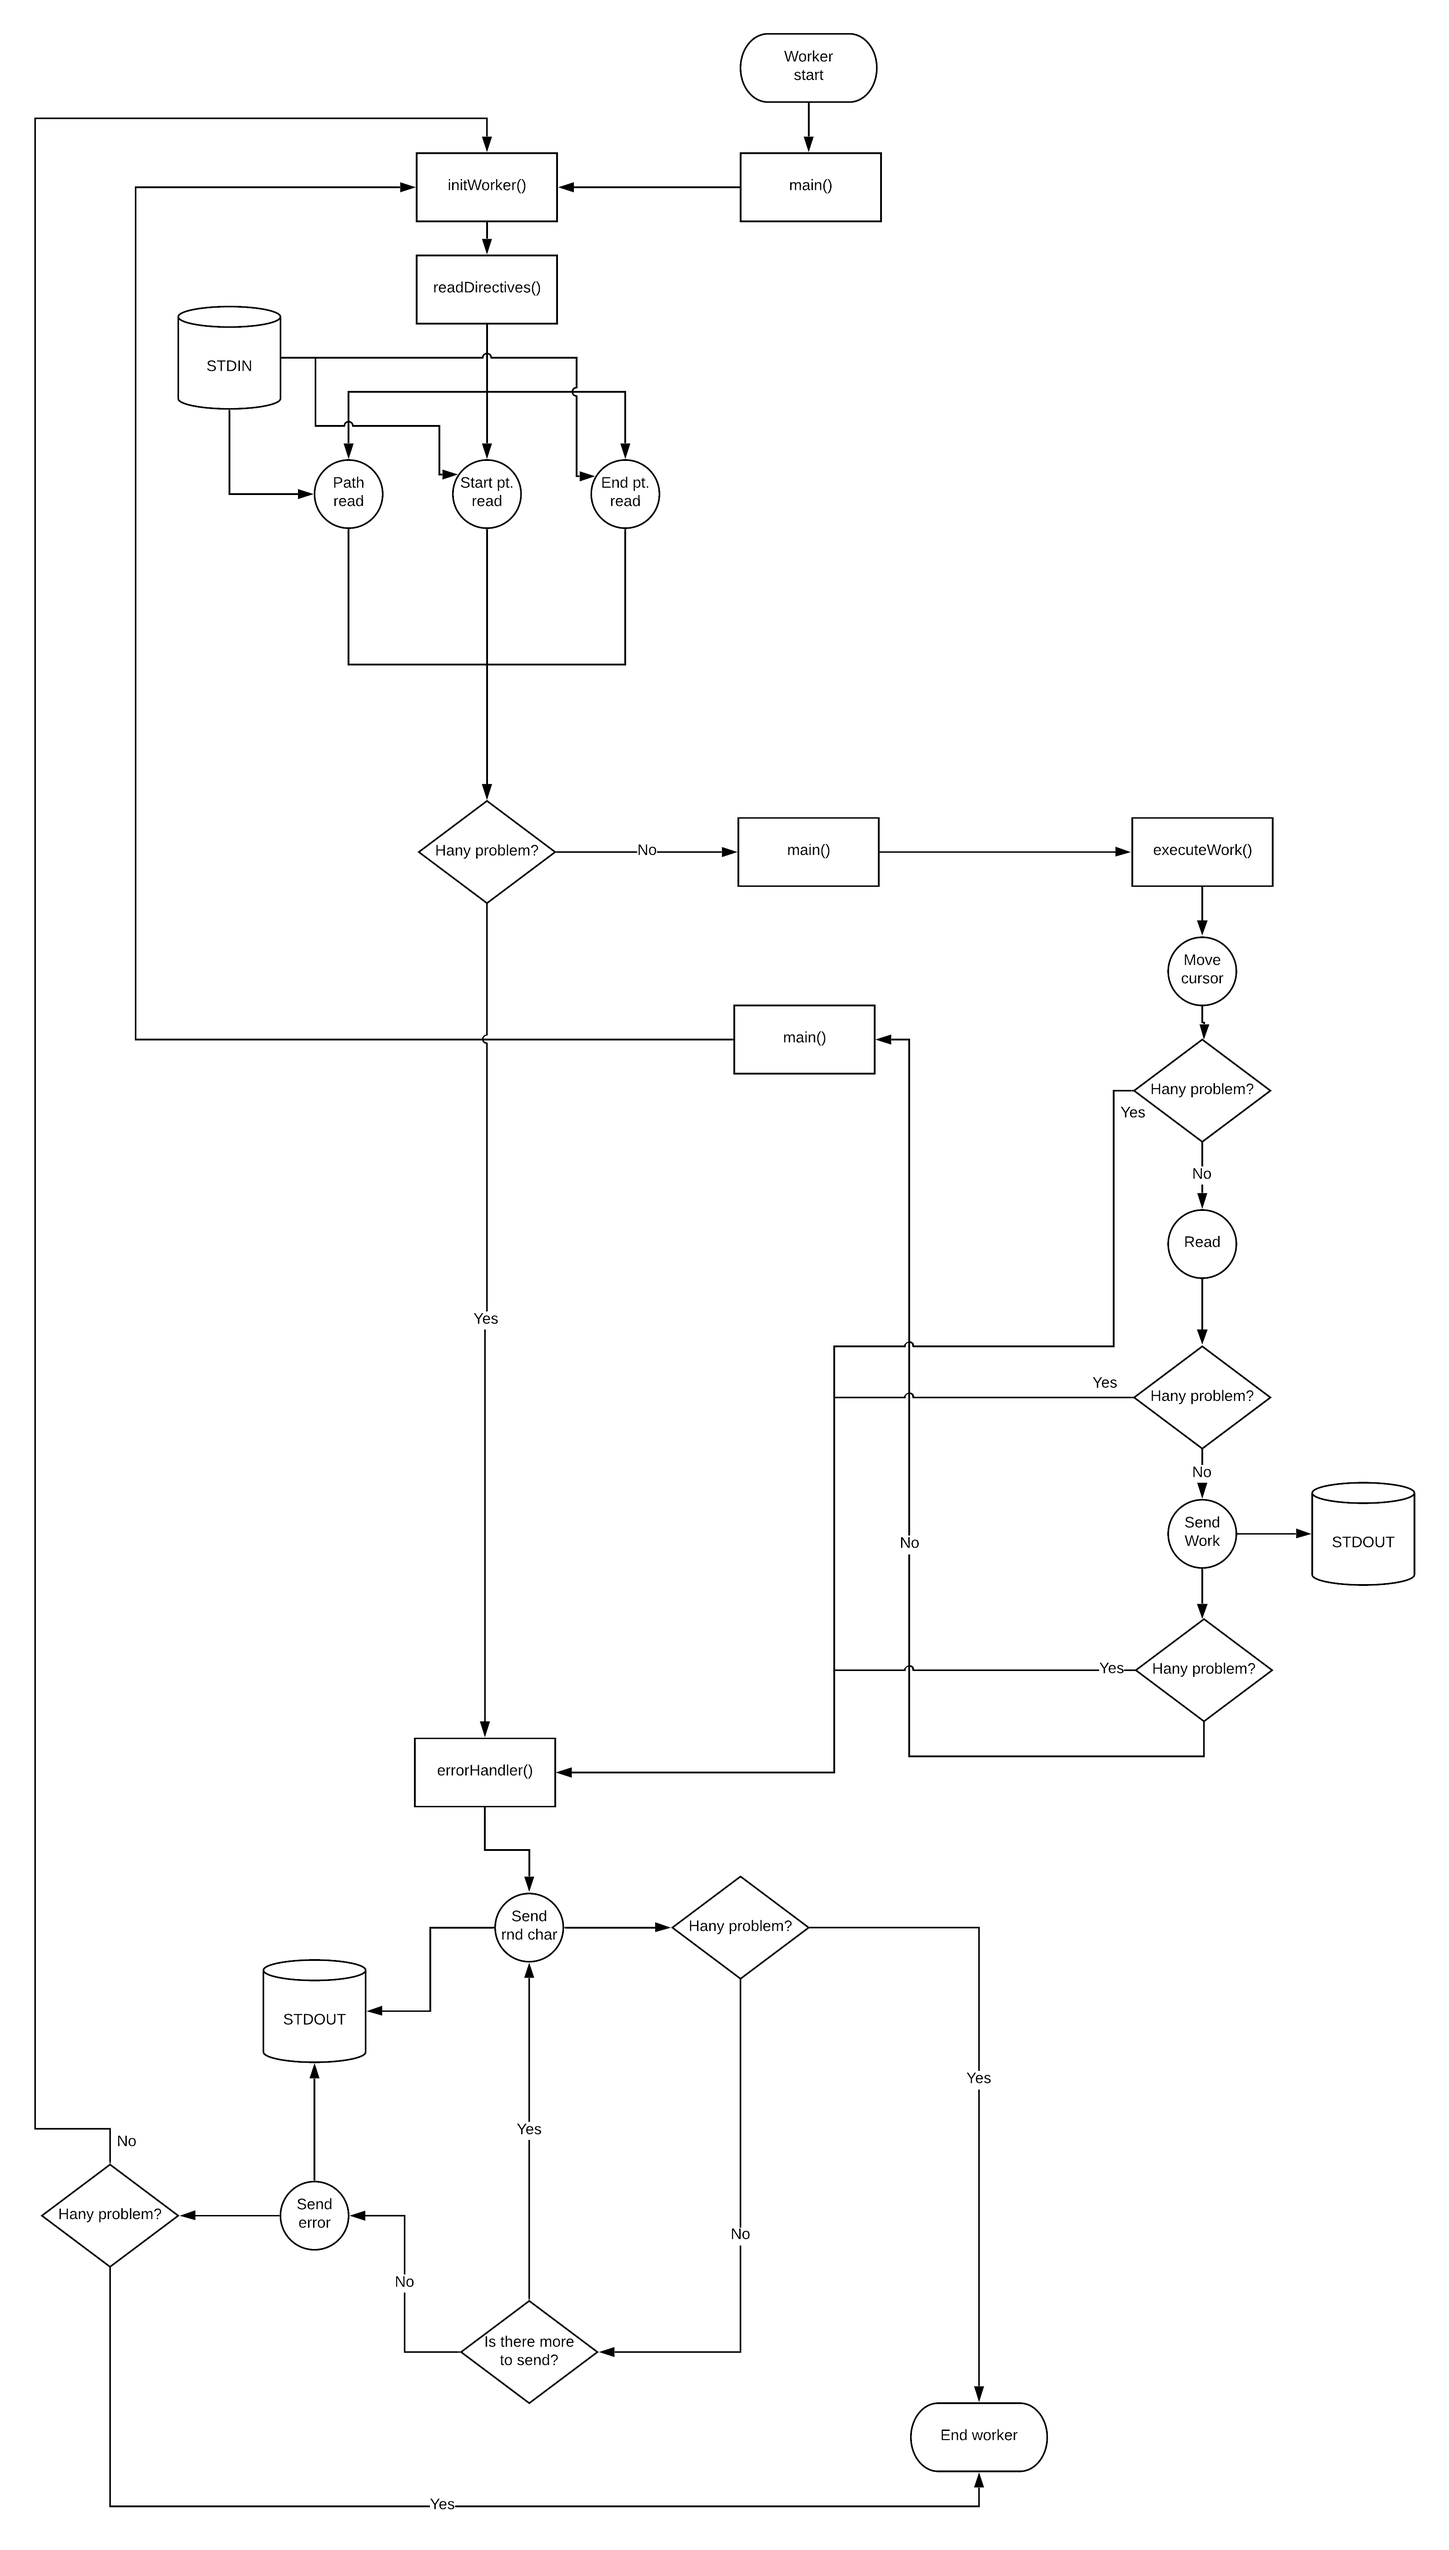
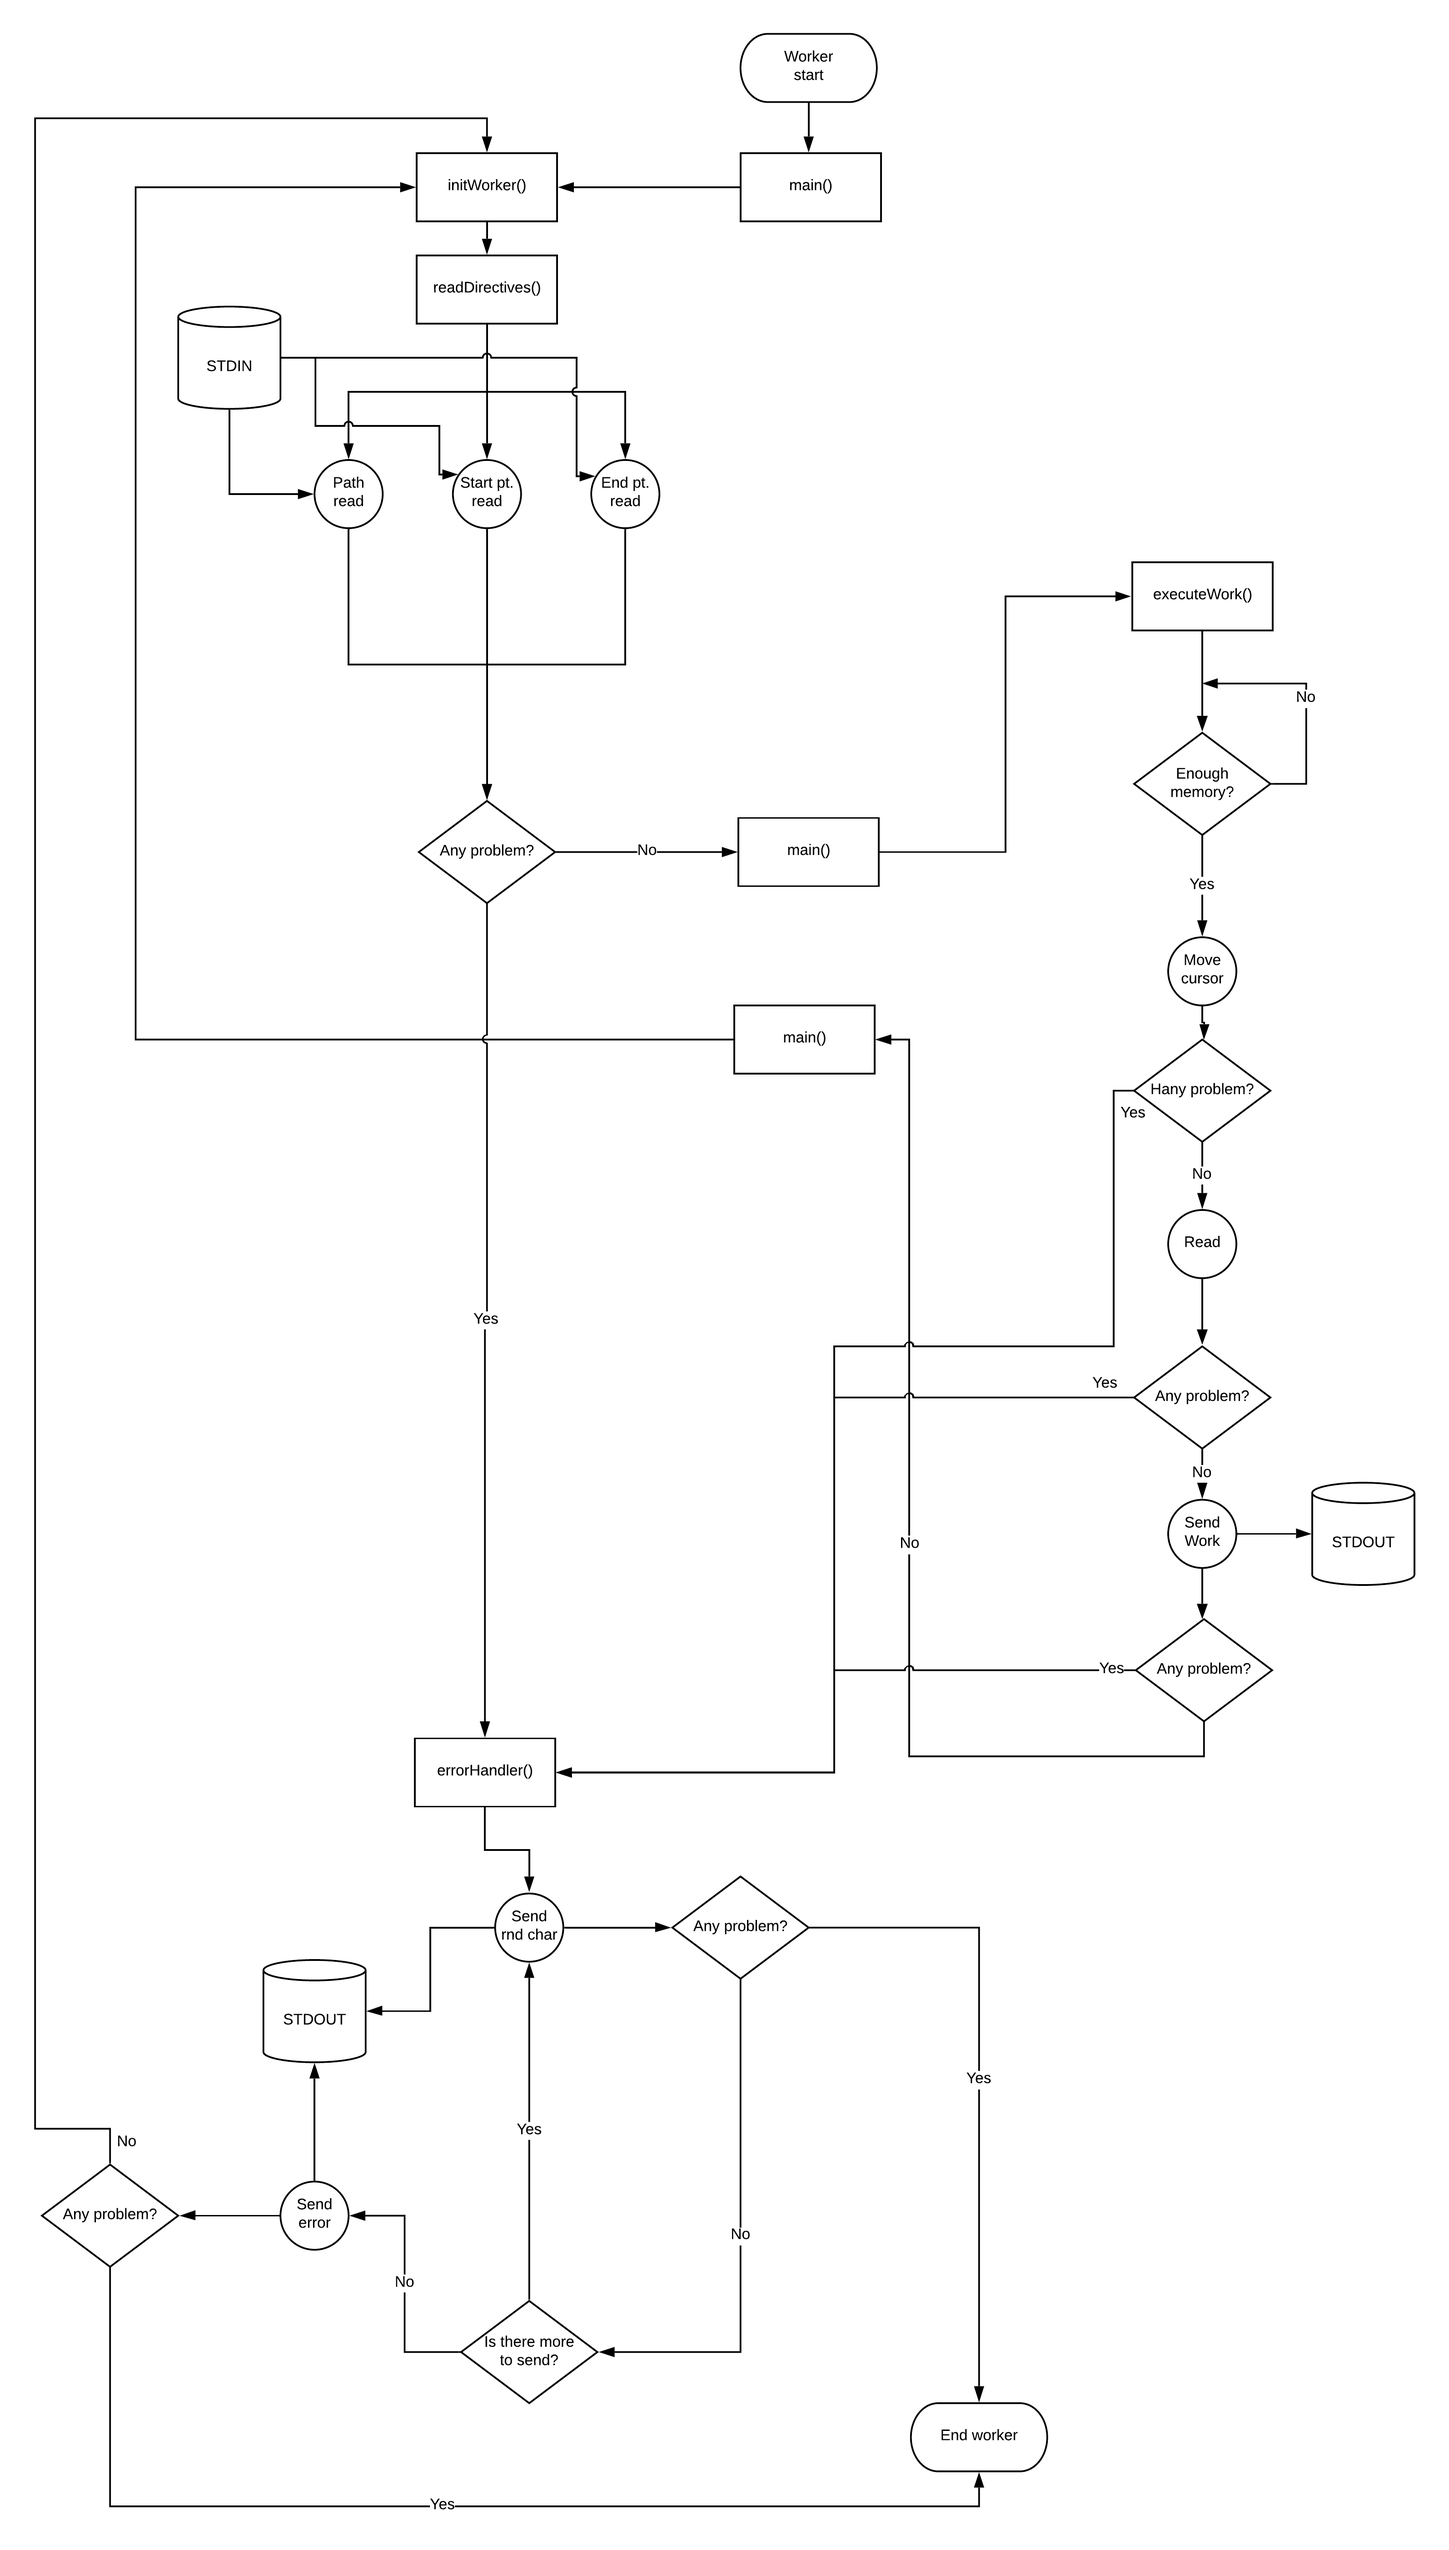
fix manager README and png

Changed region(s): [[0.8071, 0.2807, 0.8382, 0.3431], [0.8071, 0.2184, 0.8382, 0.2496]]

diff --git a/src/worker/worker.c b/src/worker/worker.c
@@ -14,8 +14,8 @@
  *
  * args:
  *    ungisned long long *start: contains buffer start
- *    unisgned long long *end: contains buffer end
- *    int *stopFlag: flags that indicates if the worker must stop
+ *    unisgned long long *end  : contains buffer end
+ *    int *stopFlag            : flags that indicates if the worker must stop
  *
  * returns:
  *    positive (file descriptor) in case of success, otherwise negative
@@ -26,10 +26,10 @@ int initWork(unsigned long long *start, unsigned long long *end, int *stopFlag);
  * Read directives from pipe
  *
  * args:
- *    char *path: path of the file
+ *    char *path       : path of the file
  *    char *bufferStart: contains buffer start in chars type
- *    char *bufferEnd: contains buffer end in chars type
- *    int *stopFlag: flags that indicates if the worker must stop
+ *    char *bufferEnd  : contains buffer end in chars type
+ *    int *stopFlag    : flags that indicates if the worker must stop
  *
  * returns:
  *    0 in case of success, otherwise negative
@@ -60,9 +60,9 @@ unsigned long long getAvailableMemory();
  * Runs work
  *
  * args:
- *    const int fd: file descriptor
+ *    const int fd                  : file descriptor
  *    const unsigned long long start: start position
- *    const unsigned long long end: end position
+ *    const unsigned long long end  : end position
  *
  * returns:
  *    0 in case of success, otherwise negative
@@ -84,7 +84,7 @@ int sendAcknowledgment();
  * returning -1
  *
  * arga:
- *    const int fd: file descriptor
+ *    const int fd                : file descriptor
  *    const unsigned long long end: file buffer end
  *
  * returns:

diff --git a/src/worker/README.md b/src/worker/README.md
@@ -7,6 +7,8 @@ The worker is lowest component of all the system. The task of a worker is to rea
 
 Start and end points are included in the read operation. The worker after the reading operation from the standard input casts the two numbers and returns an error in case one or more fail.
 
+Before start working the worker checks if there is enough memory for allocation. If so he allocates all work amount. If the available memory is smaller than the work amount the worker tries to allocate the 50% of the available memory.
+
 When the work is finished the worker try to read another directives from the standard input.
 
 ## Considerations
